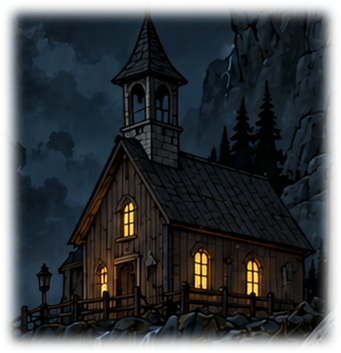
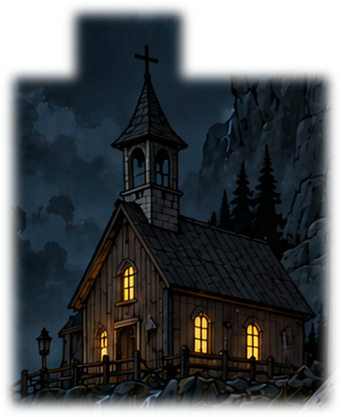
Рудник 3: у построенной часовни больше не торчит крест руин (область места захватывает крест), огни святого Эльма и удар в громоотвод — только на достроенном

diff --git a/CLAUDE.md b/CLAUDE.md
@@ -545,6 +545,9 @@
   нарисовал ряды 6/6/4/8, а `by_shape` делил рисунки на ряды поровну — кадры выплёскивания шли вперемешку. Теперь ряды
   делятся по самым широким промежуткам (`anim_hall_lib.by_shape`, для всех рудников; у рудников 1–2 ничего не изменилось),
   тайминг водолея подогнан. Остаётся: у водолея нижний ряд нарисован мельче (в кадрах 16–23 он чуть меньше).
+  Крест часовни стоял выше её области (`PLACE_POLY`), и над новой колокольней оставался крест руин — у часовни теперь
+  язык области вверх. Огни святого Эльма — только на достроенных местах (`SeaView._elmo_points`: точка принадлежит месту
+  по `place_box`), удар в громоотвод — только при достроенном маяке.
 - 26.10, звук: на главном экране тихий фон шахты — `MineAmb` (ребёнок `MineScene`) через шину `Amb` (`Sfx.amb_bus`:
   low-pass 1500 Гц + эхо пещеры, −15 дБ): гул пещеры, сверчки (не на Fire Horizon), лебёдка при ходе клети (фазы 0/0.5
   цикла 9 с, если есть `headframe`), вагонетка на выбранной глубине (фазы 0/0.5 цикла 10 с), серии ударов кирки
